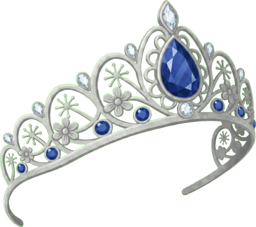
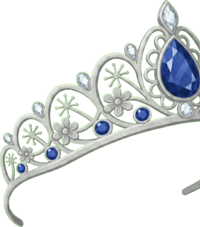
Cosmetics: art + anchor tuning pass
Hat positions dropped via offset.y so each sits on the head
instead of floating above it:
  cowboy-hat  y +0.05, rotation -0.05 → -0.2 (more CCW tilt)
  top-hat     y +0.05, rotation -0.1  → -0.18 (CCW)
  wizard-hat  y +0.04
  pirate-tricorn  y +0.06, x -0.04 (also nudged left)
  tiara       y +0.08

Art edits:
  tiara.png — right 22% cropped off so the 'far leg' of the
    diadem (which would sit in front of the raptor's face in
    side view) disappears. Now reads as if tucked behind.
  wizard-hat.png — re-cropped from source with a gentler 10%
    bottom bite (was 25%) so the left side of the brim isn't
    truncated.

Eye-slot nudges:
  monocle   scale 0.05 → 0.035, offset.x -0.03 → -0.07
  eye-patch offset.x -0.05 → -0.08

Neck slot:
  gold-chain offset.y 0.03 → 0.09 (pendants drop to the chest)

Wing attachmentPoints tuned so each wing's actual body / shoulder
lands on the raptor's back-ridge anchor:
  angel         (0.78, 0.2)  → (0.68, 0.3)
  demon         (0.22, 0.1)  → (0.28, 0.2)
  monarch       (0.55, 0.18) → (0.45, 0.4)   wings converge mid
  morpho        (0.55, 0.4)  → (0.4, 0.45)
  twilight      (0.12, 0.45) → (0.17, 0.5)
Wing scales trimmed back (angel 0.7→0.6, demon 0.85→0.7,
butterflies 0.6→0.55) since the pin is accurate now.

diff --git a/src/cosmetics.ts b/src/cosmetics.ts
@@ -122,9 +122,7 @@ export const COSMETICS: ReadonlyArray<CosmeticDef> = [
     price: 50,
     spriteKey: "cowboyHat",
     description: "Yeehaw. Fits the desert.",
-    // Wide brim, sits flat on the head — doesn't want the
-    // party hat's ~20° backwards tilt.
-    draw: { scale: 0.22, rotation: -0.05 },
+    draw: { scale: 0.22, rotation: -0.2, offset: { y: 0.05 } },
   },
   {
     id: "top-hat",
@@ -133,7 +131,7 @@ export const COSMETICS: ReadonlyArray<CosmeticDef> = [
     price: 150,
     spriteKey: "topHat",
     description: "Fancy. Pairs with the bow tie.",
-    draw: { scale: 0.3, rotation: -0.1 },
+    draw: { scale: 0.3, rotation: -0.18, offset: { y: 0.05 } },
   },
   {
     id: "wizard-hat",
@@ -142,7 +140,7 @@ export const COSMETICS: ReadonlyArray<CosmeticDef> = [
     price: 200,
     spriteKey: "wizardHat",
     description: "Pointy and arcane.",
-    draw: { scale: 0.32, rotation: -0.15 },
+    draw: { scale: 0.32, rotation: -0.15, offset: { y: 0.04 } },
   },
   {
     id: "pirate-tricorn",
@@ -151,7 +149,7 @@ export const COSMETICS: ReadonlyArray<CosmeticDef> = [
     price: 175,
     spriteKey: "pirateTricorn",
     description: "Skull and crossbones, plumed. Pairs with the eye patch.",
-    draw: { scale: 0.26, rotation: 0.02 },
+    draw: { scale: 0.26, rotation: 0.02, offset: { x: -0.04, y: 0.06 } },
   },
   {
     id: "crown",
@@ -160,7 +158,9 @@ export const COSMETICS: ReadonlyArray<CosmeticDef> = [
     price: 500,
     spriteKey: "tiara",
     description: "Silver with a sapphire centrepiece — premium royalty.",
-    draw: { scale: 0.22, rotation: -0.05 },
+    // Tiara sprite has had its right leg cropped so the far band
+    // doesn't appear in front of the raptor's face.
+    draw: { scale: 0.22, rotation: -0.05, offset: { y: 0.08 } },
   },
   {
     id: "sombrero",
@@ -186,10 +186,10 @@ export const COSMETICS: ReadonlyArray<CosmeticDef> = [
     spriteKey: "monocle",
     description: "Distinguished and a little silly.",
     // Round lens + hanging chain — wants to sit flat at eye level,
-    // not follow the snout angle the slot default uses. Smaller
-    // than the thug glasses and nudged back toward the eye so the
-    // chain doesn't hang off the snout tip.
-    draw: { scale: 0.05, rotation: 0, offset: { x: -0.03 } },
+    // not follow the snout angle the slot default uses. Much
+    // smaller than the thug glasses and nudged well back toward
+    // the eye so the chain doesn't dangle past the snout tip.
+    draw: { scale: 0.035, rotation: 0, offset: { x: -0.07 } },
   },
   {
     id: "eye-patch",
@@ -202,7 +202,7 @@ export const COSMETICS: ReadonlyArray<CosmeticDef> = [
     // squarely over the eye. Rotation omitted so the slot-default
     // snout-ridge angle kicks in — makes the small leading strap
     // drape over the snout rather than sticking out flat.
-    draw: { scale: 0.13, offset: { x: -0.05 } },
+    draw: { scale: 0.13, offset: { x: -0.08 } },
   },
 
   // ── Shop: neck ────────────────────────────────────────
@@ -223,10 +223,10 @@ export const COSMETICS: ReadonlyArray<CosmeticDef> = [
     // Cropped to just the pendants + flipped so the back of the
     // chain doesn't show in front of the neck. Slot default is
     // 8% of raptor width; the pendant group is wider relative
-    // to the bow tie so we size it down further. Nudged lower +
-    // right so the pendants hang on the front of the neck rather
-    // than sliding up toward the chin.
-    draw: { scale: 0.07, rotation: -0.1, offset: { x: 0.02, y: 0.03 } },
+    // to the bow tie so we size it down further. Nudged well
+    // down from the neck anchor so the pendants hang on the
+    // chest instead of sliding up toward the chin.
+    draw: { scale: 0.07, rotation: -0.1, offset: { x: 0.02, y: 0.09 } },
   },
   {
     id: "scarf",
@@ -254,11 +254,12 @@ export const COSMETICS: ReadonlyArray<CosmeticDef> = [
     spriteKey: "angelWings",
     description: "Feathered, luminous. Halo not included.",
     // Shoulder joint where the feathers fan out — upper-right of
-    // the (pre-flipped) sprite.
+    // the (pre-flipped) sprite. Pulled inward (x=0.68) because
+    // the extreme right edge is feather tips, not the bony root.
     draw: {
-      scale: 0.7,
-      rotation: -0.2,
-      attachmentPoint: { x: 0.78, y: 0.2 },
+      scale: 0.6,
+      rotation: -0.15,
+      attachmentPoint: { x: 0.68, y: 0.3 },
     },
   },
   {
@@ -268,13 +269,11 @@ export const COSMETICS: ReadonlyArray<CosmeticDef> = [
     price: 600,
     spriteKey: "demonWings",
     description: "Boned and membraned. Runic markings optional.",
-    // Horned shoulder bones — upper-left of the sprite as drawn
-    // (demon art wasn't flipped; its natural attachment already
-    // faces the raptor's body direction).
+    // Horned shoulder bones — upper-left of the sprite as drawn.
     draw: {
-      scale: 0.85,
+      scale: 0.7,
       rotation: -0.15,
-      attachmentPoint: { x: 0.22, y: 0.1 },
+      attachmentPoint: { x: 0.28, y: 0.2 },
     },
   },
   {
@@ -284,12 +283,12 @@ export const COSMETICS: ReadonlyArray<CosmeticDef> = [
     price: 300,
     spriteKey: "butterflyWingsOrange",
     description: "Orange monarch — moons and flowers pattern.",
-    // Thorax where upper + lower wings meet — near the top of
-    // the sprite, slightly right of centre.
+    // Thorax where the upper and lower wings meet — around the
+    // middle of the sprite vertically, a touch left of centre.
     draw: {
-      scale: 0.6,
+      scale: 0.55,
       rotation: -0.15,
-      attachmentPoint: { x: 0.55, y: 0.18 },
+      attachmentPoint: { x: 0.45, y: 0.4 },
     },
   },
   {
@@ -300,9 +299,9 @@ export const COSMETICS: ReadonlyArray<CosmeticDef> = [
     spriteKey: "butterflyWingsBlue",
     description: "Deep-blue morpho — speckled and eyespotted.",
     draw: {
-      scale: 0.6,
+      scale: 0.55,
       rotation: -0.15,
-      attachmentPoint: { x: 0.55, y: 0.4 },
+      attachmentPoint: { x: 0.4, y: 0.45 },
     },
   },
   {
@@ -314,9 +313,9 @@ export const COSMETICS: ReadonlyArray<CosmeticDef> = [
     description: "Magenta with celestial banding.",
     // Twilight has the vertical body band on the LEFT edge.
     draw: {
-      scale: 0.6,
+      scale: 0.55,
       rotation: -0.15,
-      attachmentPoint: { x: 0.12, y: 0.45 },
+      attachmentPoint: { x: 0.17, y: 0.5 },
     },
   },
 ];
